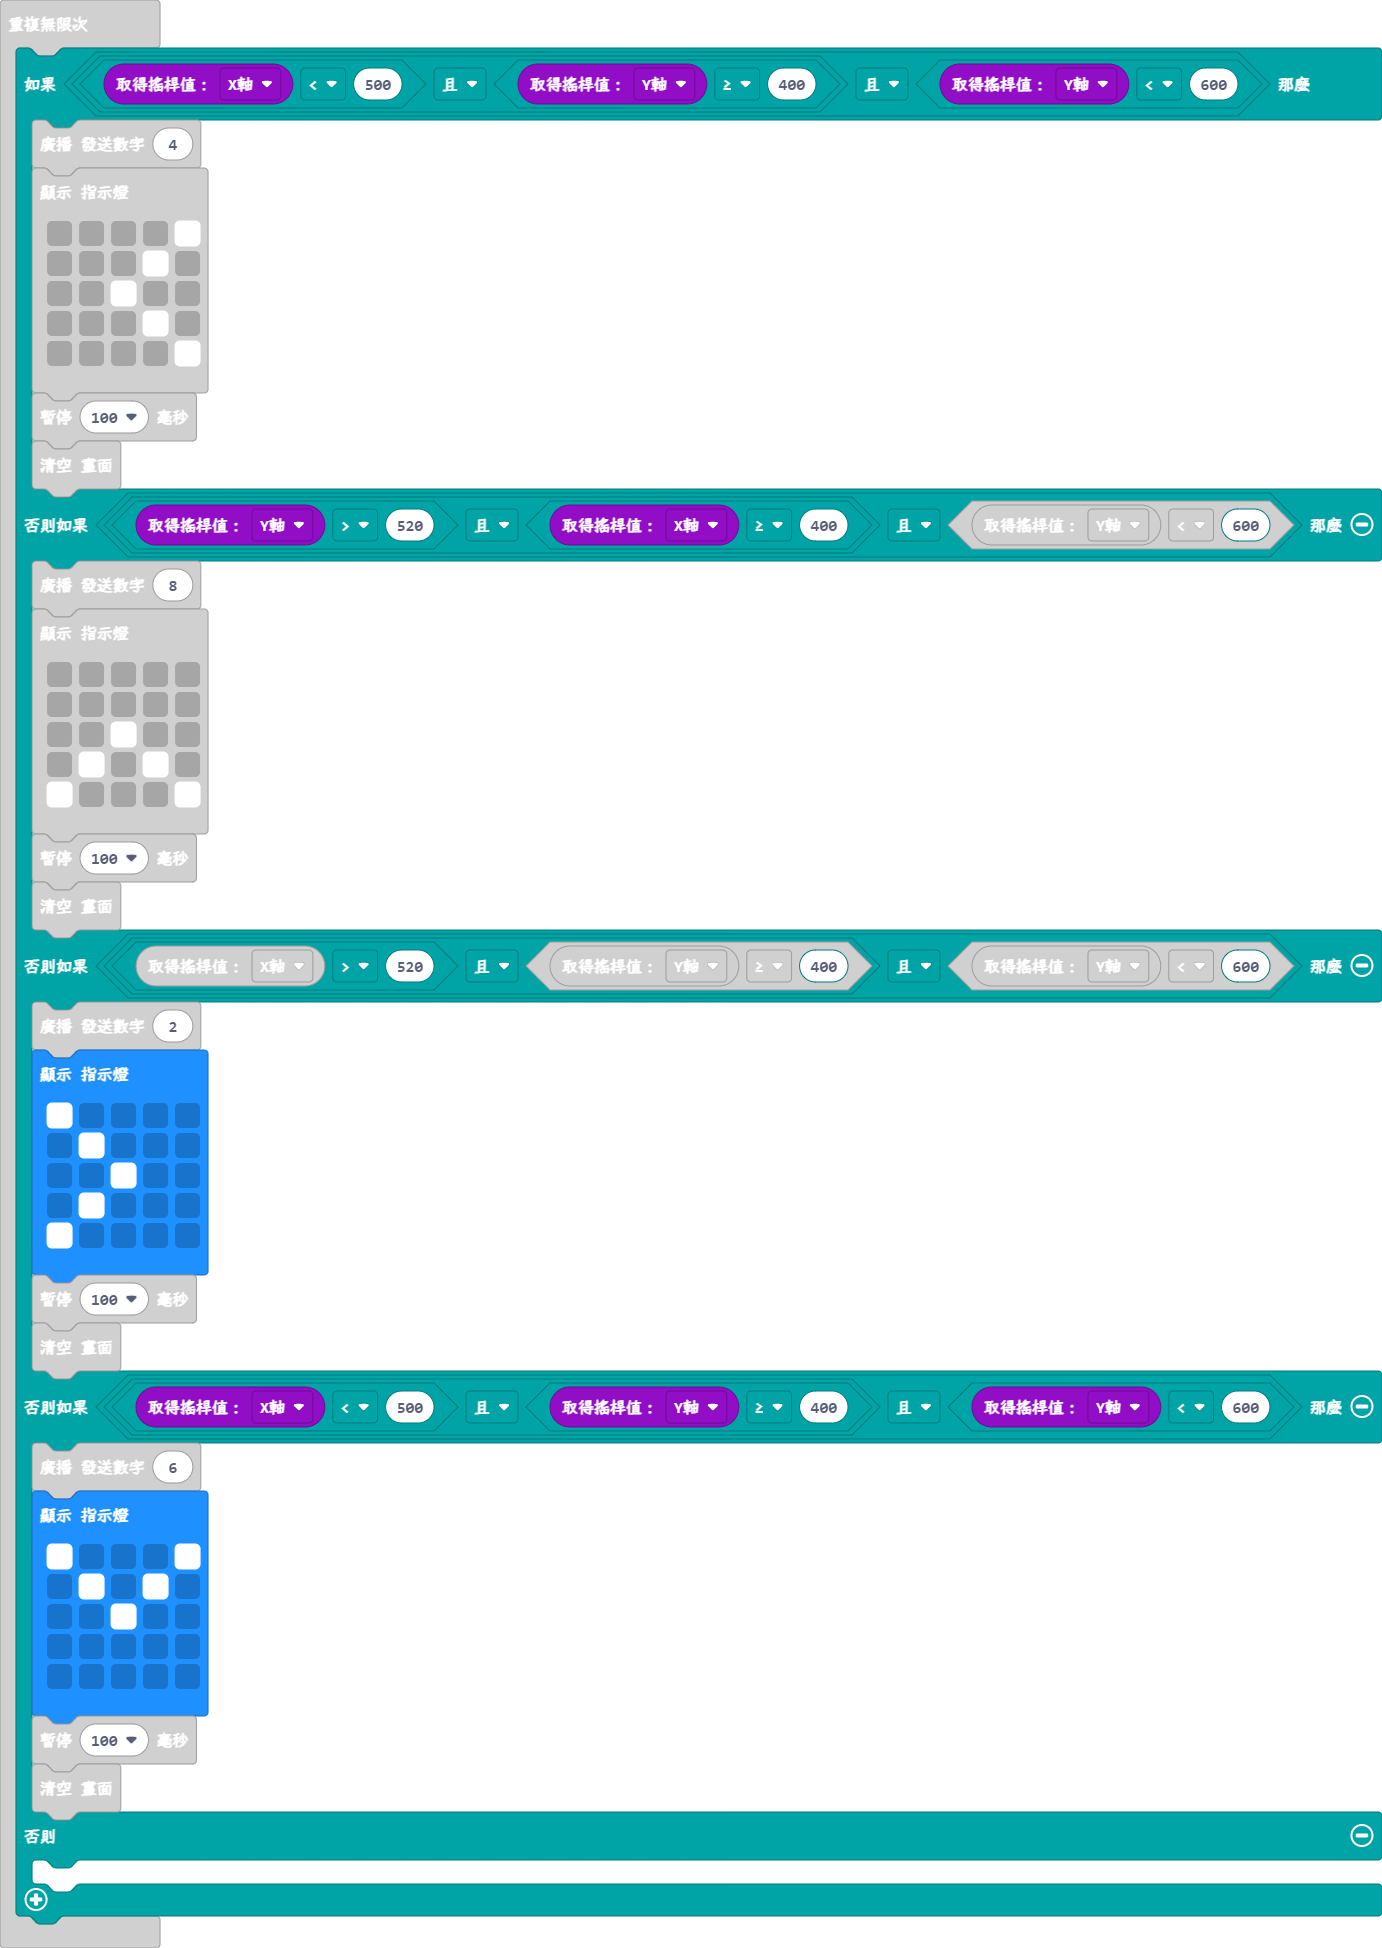
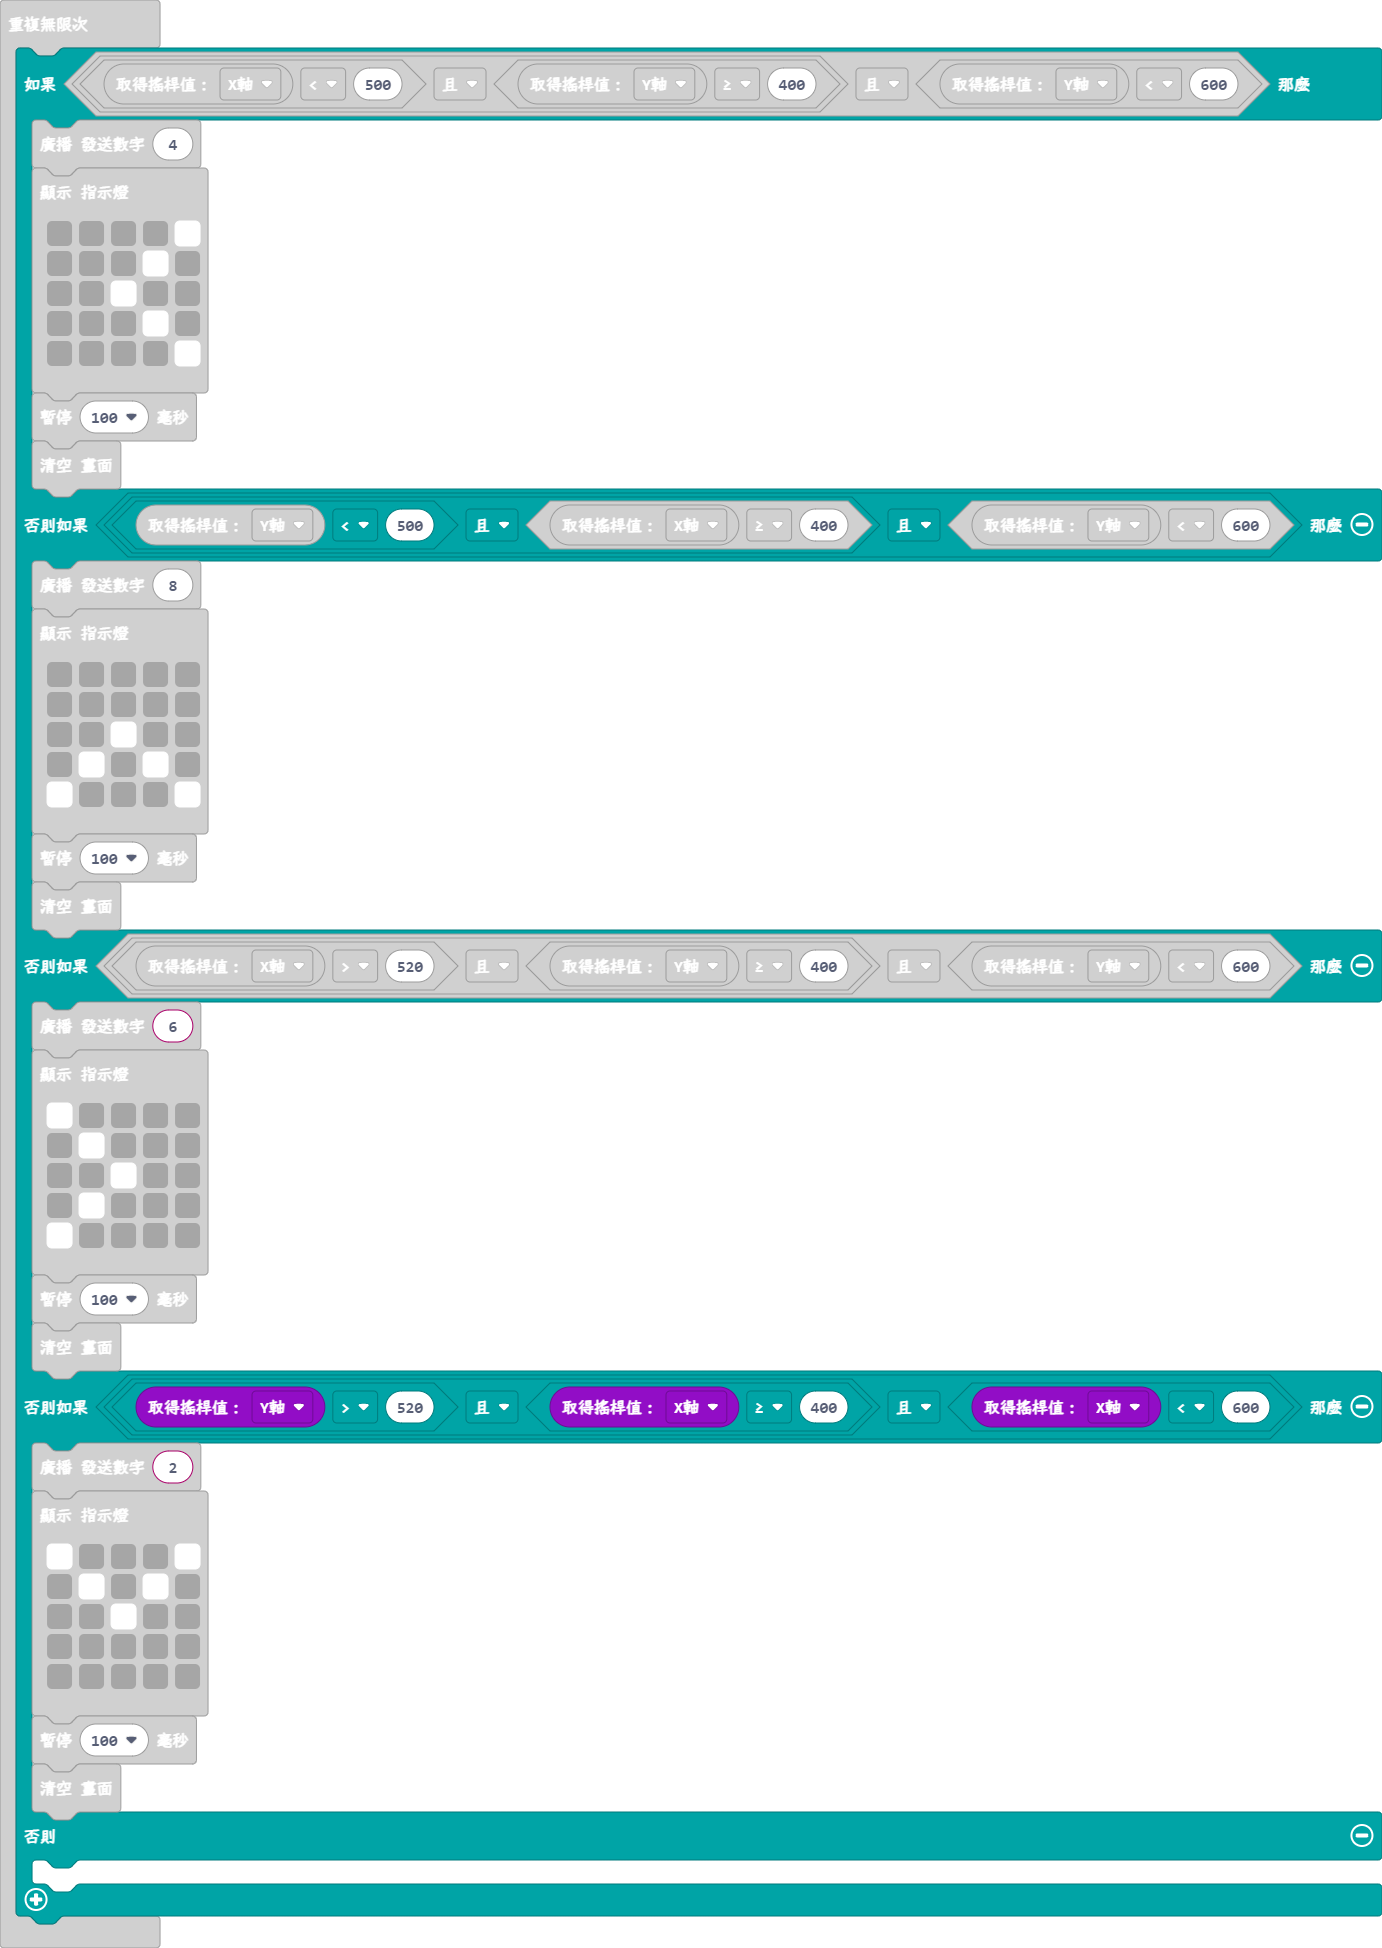
更新 main.blocks, main.ts

diff --git a/main.ts b/main.ts
@@ -23,7 +23,7 @@ basic.forever(function () {
             `)
         basic.pause(100)
         basic.clearScreen()
-    } else if (KSB045.getJoystickValue(KSB045.valueType.Y) > 520 && KSB045.getJoystickValue(KSB045.valueType.X) >= 400 && KSB045.getJoystickValue(KSB045.valueType.Y) < 600) {
+    } else if (KSB045.getJoystickValue(KSB045.valueType.Y) < 500 && KSB045.getJoystickValue(KSB045.valueType.X) >= 400 && KSB045.getJoystickValue(KSB045.valueType.Y) < 600) {
         radio.sendNumber(8)
         basic.showLeds(`
             . . . . .
@@ -35,7 +35,7 @@ basic.forever(function () {
         basic.pause(100)
         basic.clearScreen()
     } else if (KSB045.getJoystickValue(KSB045.valueType.X) > 520 && KSB045.getJoystickValue(KSB045.valueType.Y) >= 400 && KSB045.getJoystickValue(KSB045.valueType.Y) < 600) {
-        radio.sendNumber(2)
+        radio.sendNumber(6)
         basic.showLeds(`
             # . . . .
             . # . . .
@@ -45,8 +45,8 @@ basic.forever(function () {
             `)
         basic.pause(100)
         basic.clearScreen()
-    } else if (KSB045.getJoystickValue(KSB045.valueType.X) < 500 && KSB045.getJoystickValue(KSB045.valueType.Y) >= 400 && KSB045.getJoystickValue(KSB045.valueType.Y) < 600) {
-        radio.sendNumber(6)
+    } else if (KSB045.getJoystickValue(KSB045.valueType.Y) > 520 && KSB045.getJoystickValue(KSB045.valueType.X) >= 400 && KSB045.getJoystickValue(KSB045.valueType.X) < 600) {
+        radio.sendNumber(2)
         basic.showLeds(`
             # . . . #
             . # . # .
